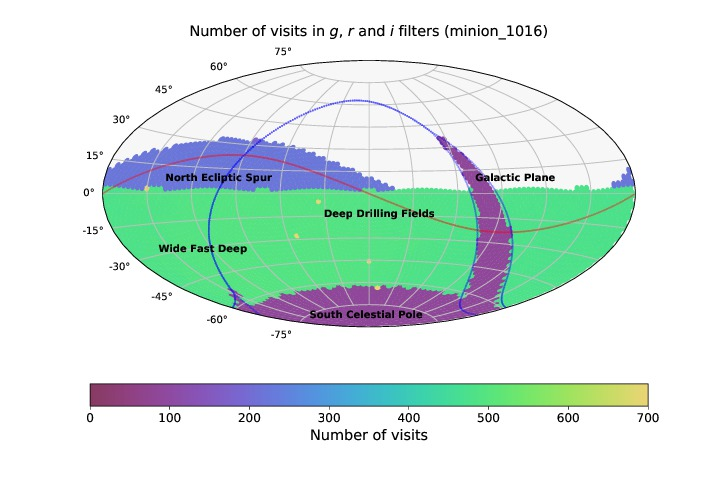
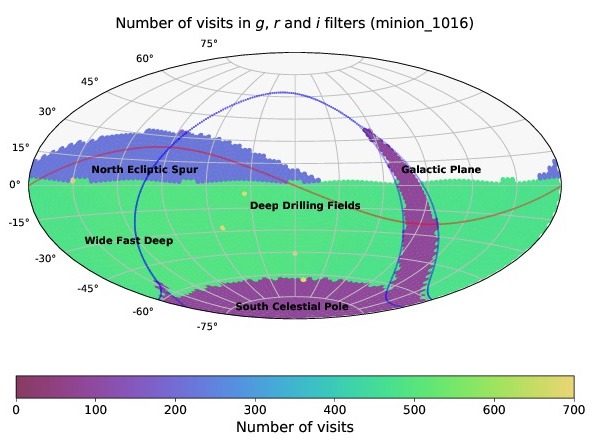
Changed DAX scientist to Colin, trimmed white space on coverage image

diff --git a/DmOrg.tex b/DmOrg.tex
@@ -84,7 +84,7 @@ noheadfoot,marginparwidth=0pt,includemp=false ]{geometry}
 
     %\node (al) [below=69mm of dmpm, text width=0mm]{};
     \dmnode[left=1mm of udmpm2.north]{suit}{SUIT}{Xiuqin Wu}{Gregory Dubois-Felsmann}{psbox} ;
-    \dmnode[base left=2mm of suit]{das}{Data Access Services}{Fritz Mueller}{Leanne Guy} {psbox};
+    \dmnode[base left=2mm of suit]{das}{Data Access Services}{Fritz Mueller}{Colin Slater} {psbox};
 
     \node (drp) [mbox, text width=36mm, rectangle split, rectangle split parts=2, base left=2mm of das]
          {Science Pipelines \strut \nodepart{second} \vspace{39mm}};
